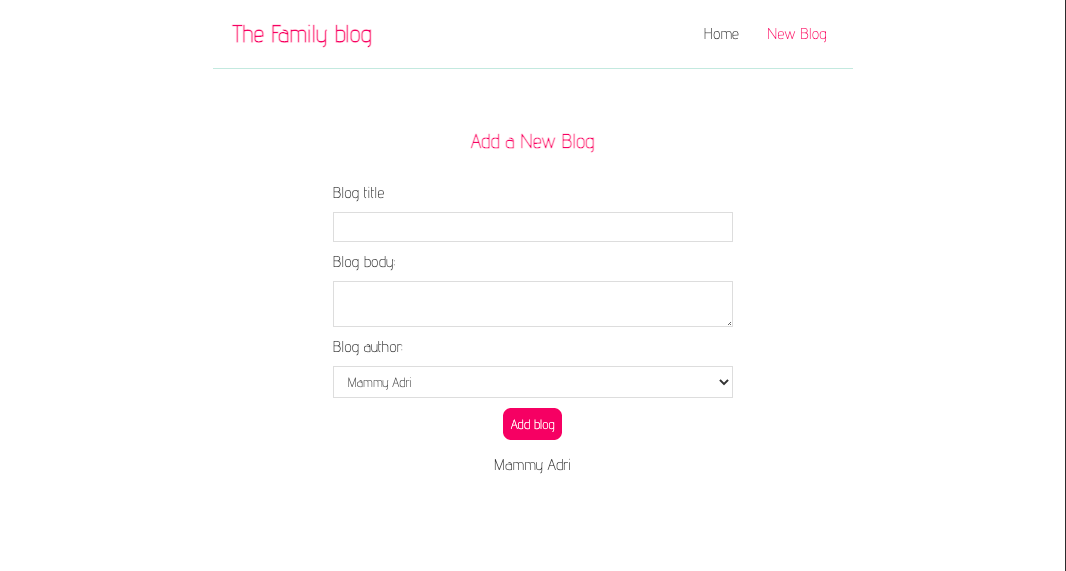
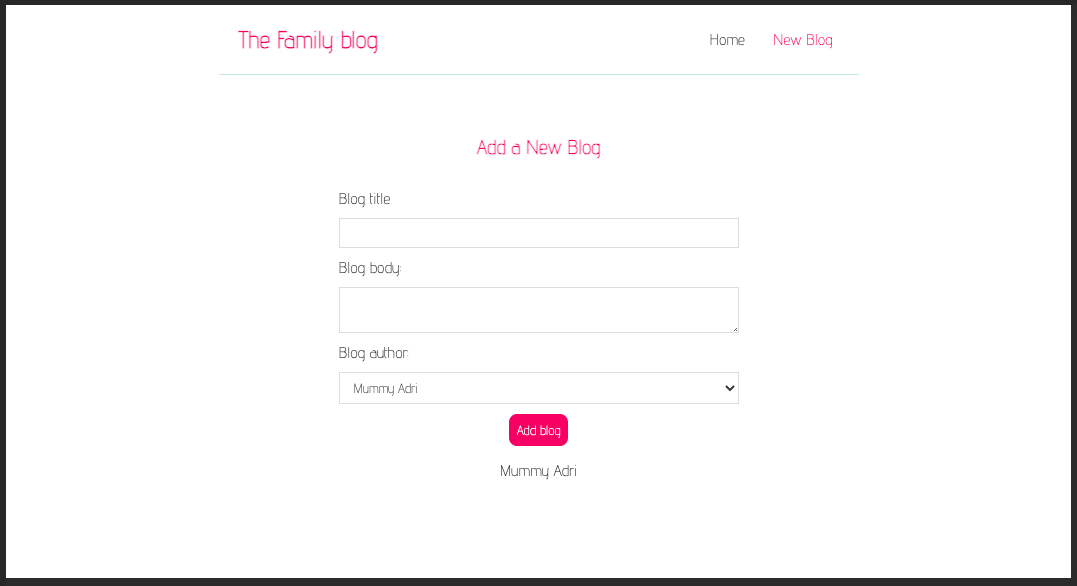
change mistakes

diff --git a/src/Create.js b/src/Create.js
@@ -4,7 +4,7 @@ import { useHistory } from "react-router-dom";
 const Create = () => {
   const [title, setTitle] = useState("");
   const [body, setBody] = useState("");
-  const [author, setAuthor] = useState("Mammy Adri");
+  const [author, setAuthor] = useState("Mummy Adri");
   const [isPending, setIsPending] = useState(false);
   const history = useHistory();
 
@@ -46,7 +46,7 @@ const Create = () => {
         <label>Blog author:</label>
         <select value={author} onChange={(e) => setAuthor(e.target.value)}>
           <option value="Daddy Greg">Daddy Greg</option>
-          <option value="Mammy Adri">Mammy Adri</option>
+          <option value="Mummy Adri">Mummy Adri</option>
         </select>
         {!isPending && <button>Add blog</button>}
         {isPending && <button disabled>Adding blog...</button>}
